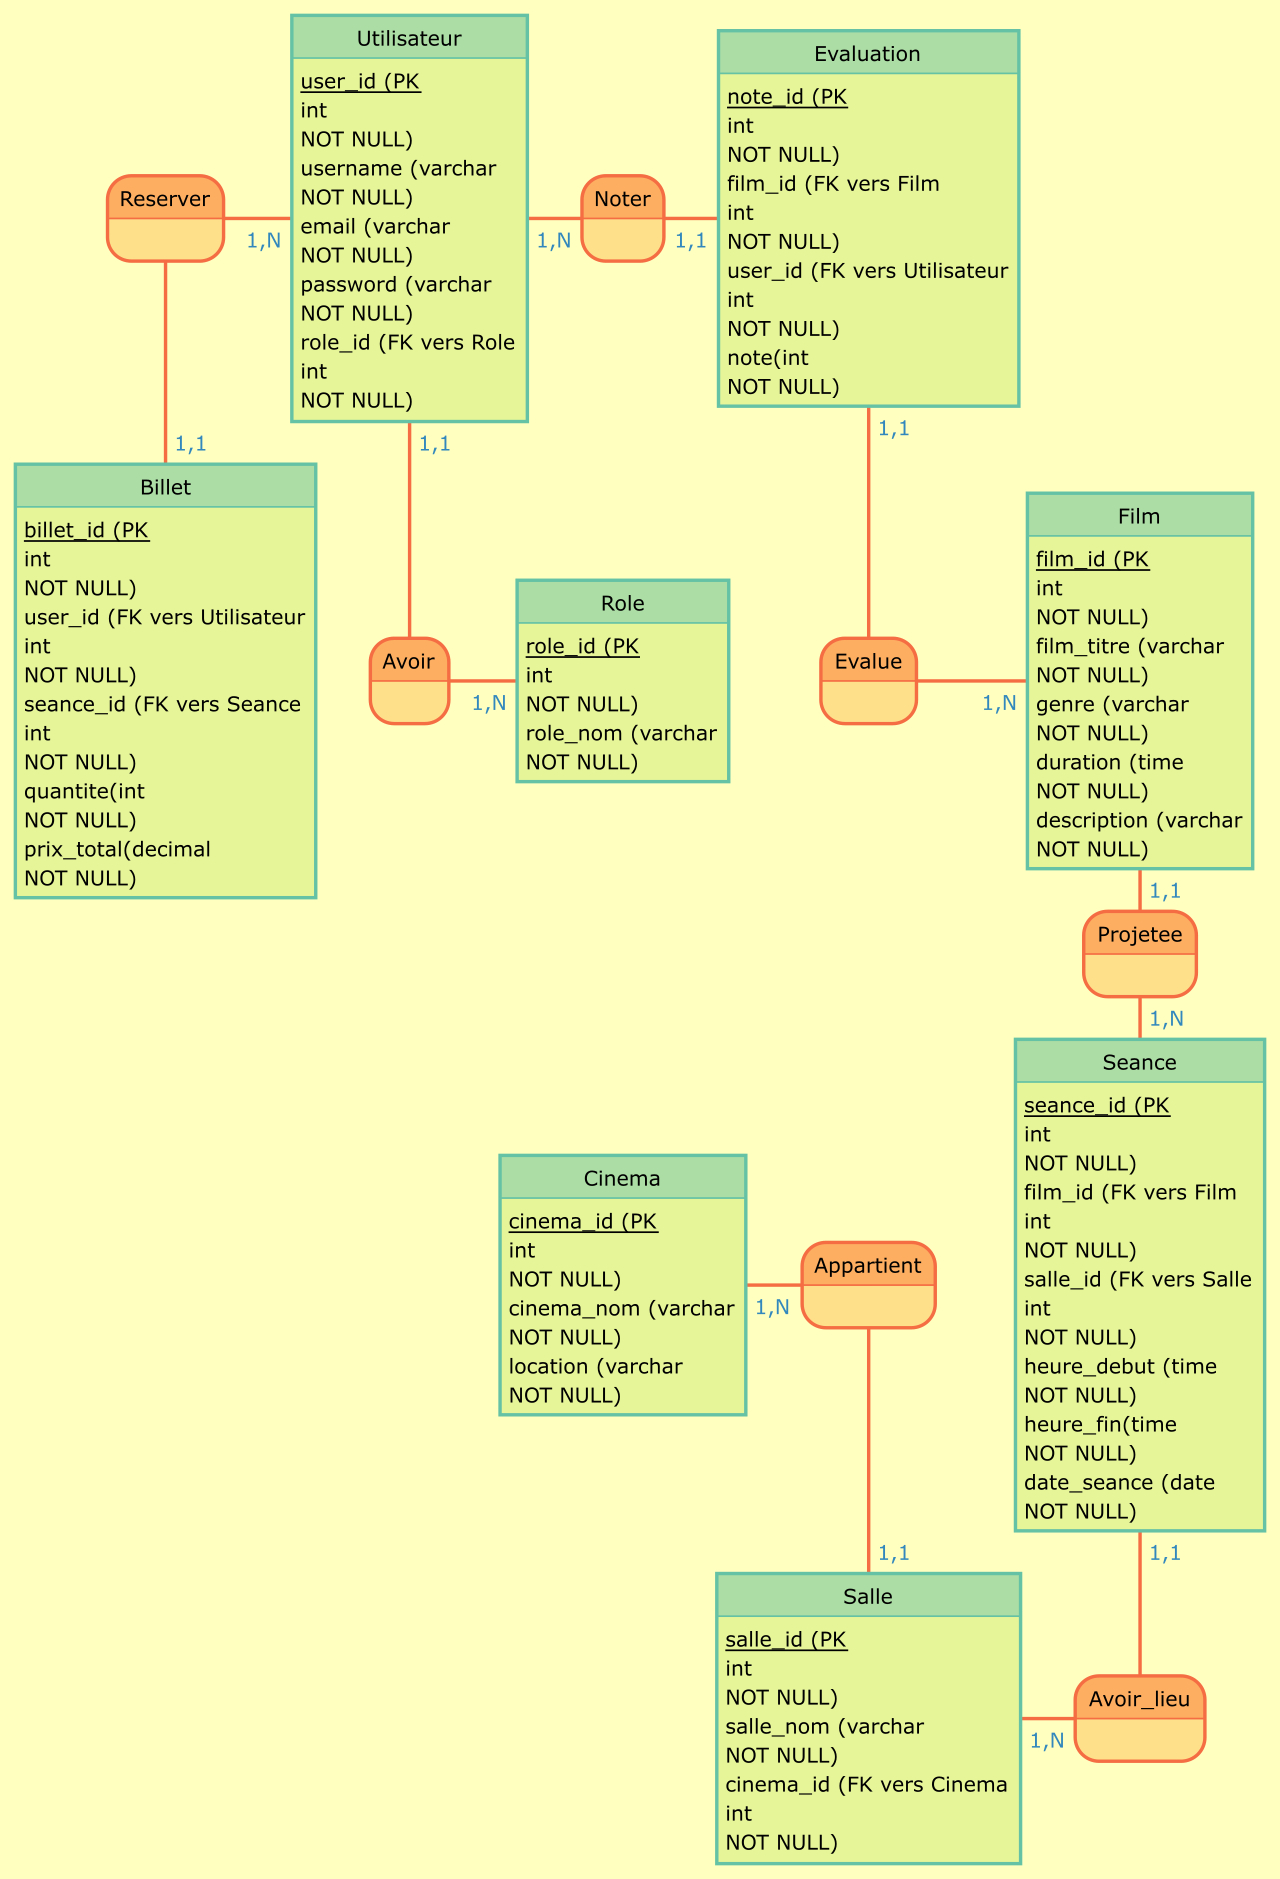
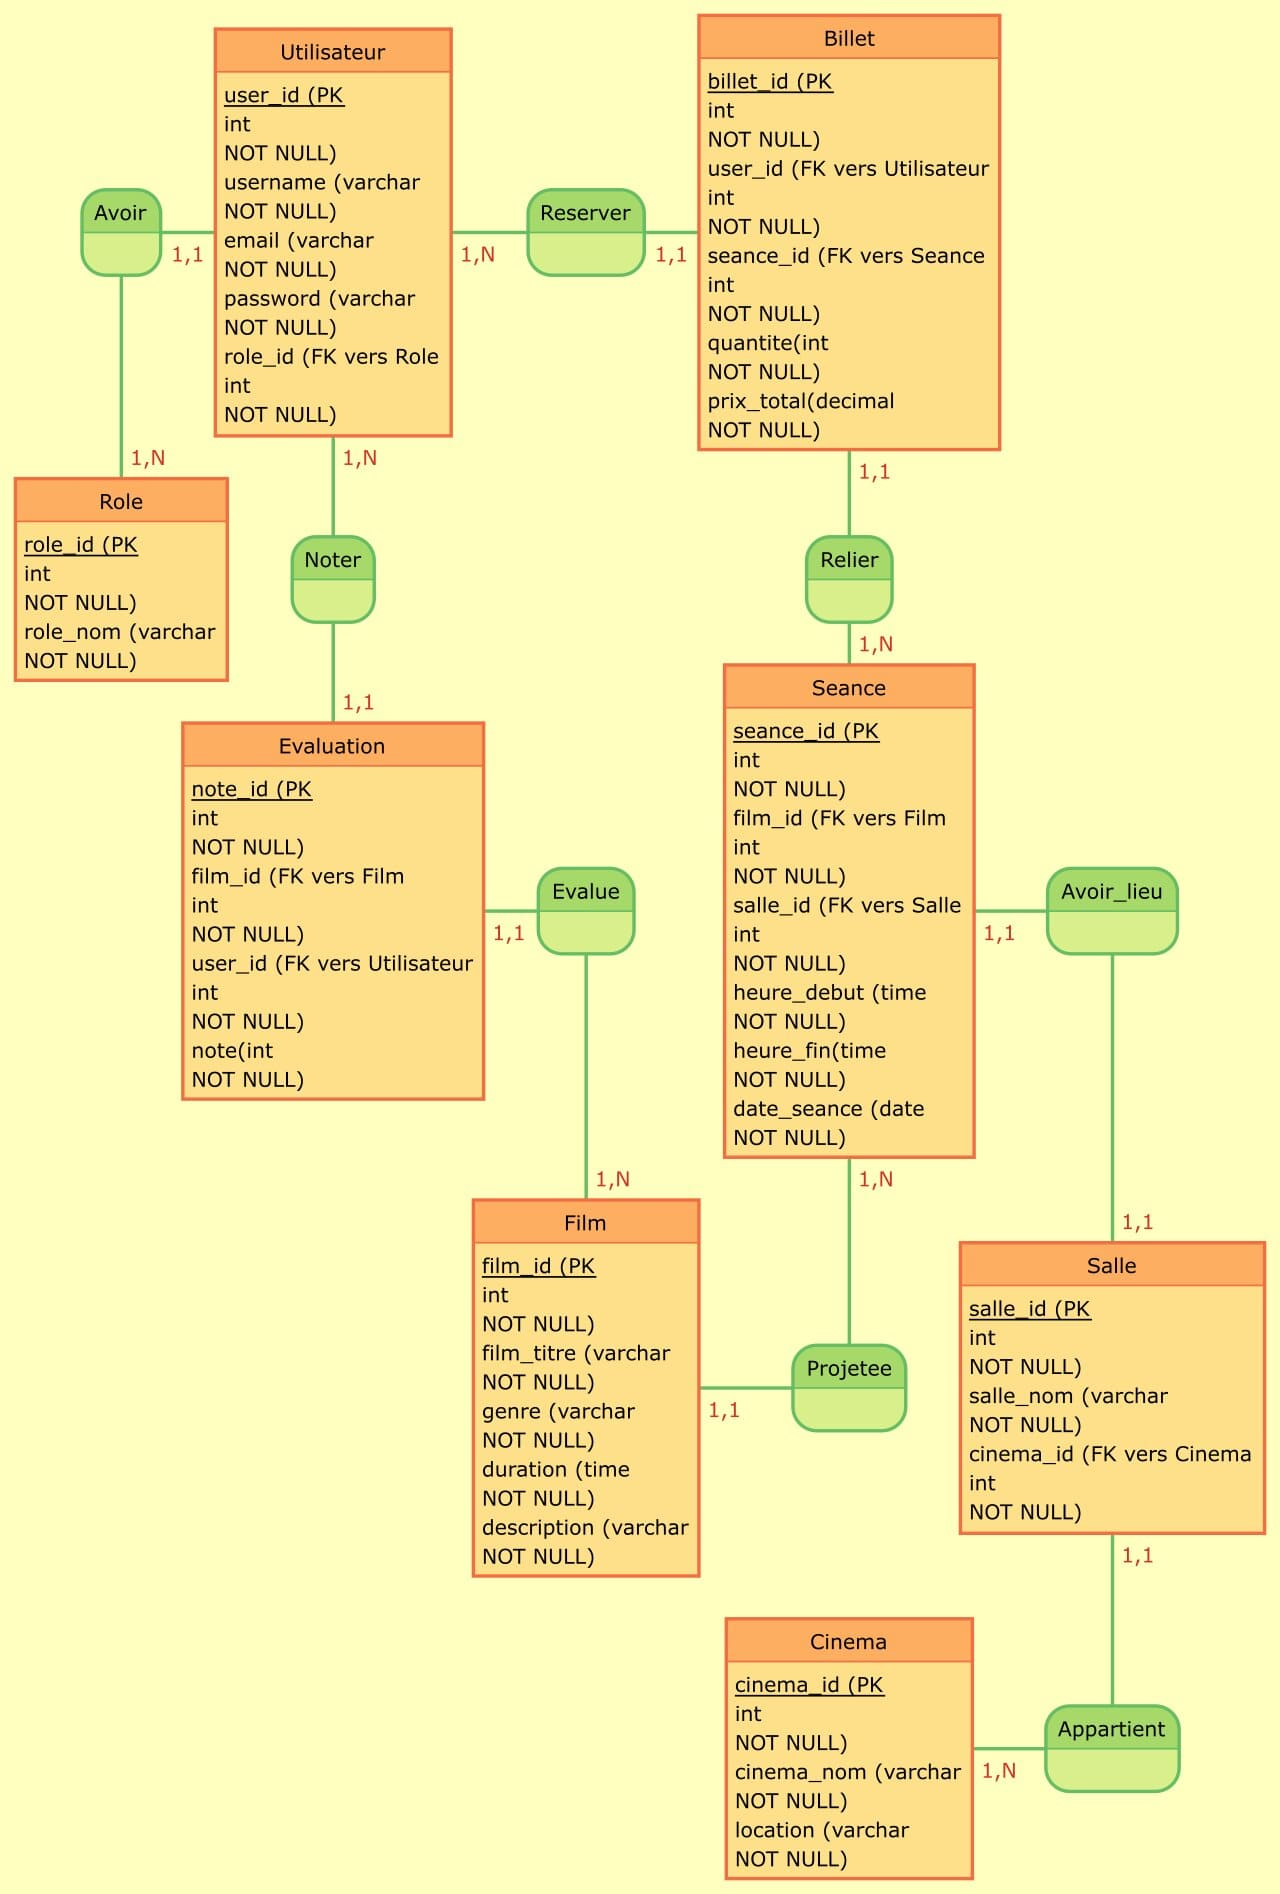
Fix and add Tables MLD

diff --git a/mocodo.md b/mocodo.md
@@ -1,30 +1,36 @@
 ### Entrée pour la création MCD sur mocodo.net
+:
+:
+Avoir, 11 Utilisateur, 1N Role
+Role: role_id (PK, int, NOT NULL), role_nom (varchar, NOT NULL)
+:
+
+:
 Reserver, 1N Utilisateur, 11 Billet
 Utilisateur: user_id (PK, int, NOT NULL), username (varchar, NOT NULL), email (varchar, NOT NULL), password (varchar, NOT NULL), role_id (FK vers Role, int, NOT NULL)
 Noter, 1N Utilisateur, 11 Evaluation
 Evaluation: note_id (PK, int, NOT NULL), film_id (FK vers Film, int, NOT NULL), user_id (FK vers Utilisateur, int, NOT NULL), note(int, NOT NULL)
-:
 
+:
 Billet: billet_id (PK, int, NOT NULL), user_id (FK vers Utilisateur, int, NOT NULL), seance_id (FK vers Seance, int, NOT NULL), quantite(int, NOT NULL), prix_total(decimal, NOT NULL)
-Avoir, 11 Utilisateur, 1N Role
-Role: role_id (PK, int, NOT NULL), role_nom (varchar, NOT NULL)
+Relier, 11 Billet, 1N Seance
+:
 Evalue, 11 Evaluation, 1N Film
+
+:
+Avoir_lieu, 11 Salle, 11 Seance
+Seance: seance_id (PK, int, NOT NULL), film_id (FK vers Film, int, NOT NULL), salle_id (FK vers Salle, int, NOT NULL), heure_debut (time, NOT NULL), heure_fin(time, NOT NULL), date_seance (date, NOT NULL)
+Projetee , 1N Seance, 11 Film
 Film: film_id (PK, int, NOT NULL), film_titre (varchar, NOT NULL), genre (varchar, NOT NULL), duration (time, NOT NULL), description (varchar, NOT NULL)
 
 :
+Salle: salle_id (PK, int, NOT NULL), salle_nom (varchar, NOT NULL), cinema_id (FK vers Cinema, int, NOT NULL)
 :
 :
 :
-Projetee , 1N Seance, 11 Film
 
-:
-:
 Cinema: cinema_id (PK, int, NOT NULL), cinema_nom (varchar, NOT NULL), location (varchar, NOT NULL)
 Appartient, 1N Cinema, 11 Salle
-Seance: seance_id (PK, int, NOT NULL), film_id (FK vers Film, int, NOT NULL), salle_id (FK vers Salle, int, NOT NULL), heure_debut (time, NOT NULL), heure_fin(time, NOT NULL), date_seance (date, NOT NULL)
-
 :
 :
 :
-Salle: salle_id (PK, int, NOT NULL), salle_nom (varchar, NOT NULL), cinema_id (FK vers Cinema, int, NOT NULL)
-Avoir_lieu, 1N Salle, 11 Seance
